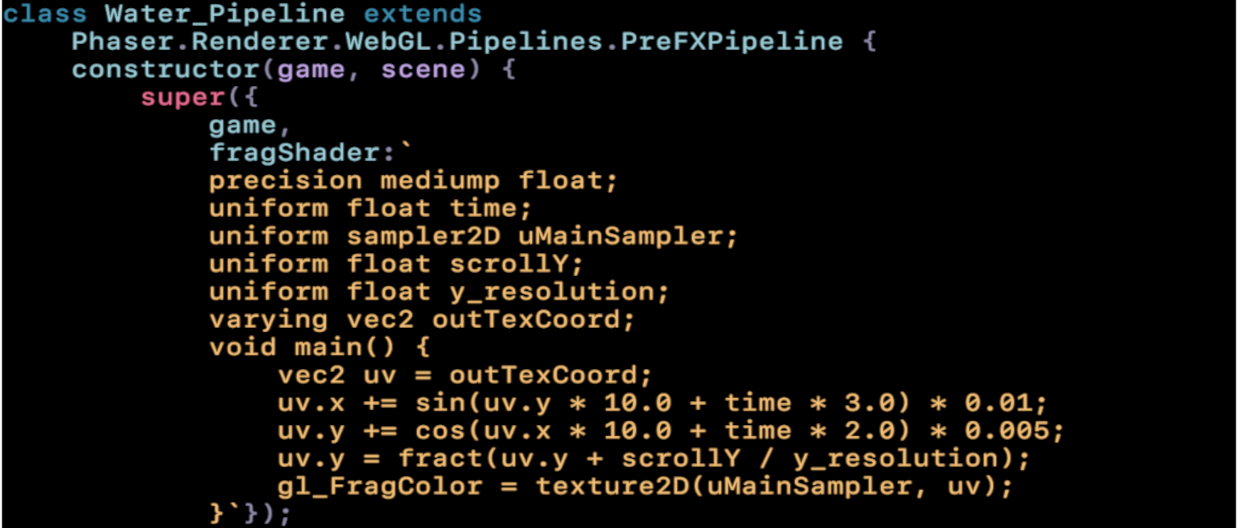
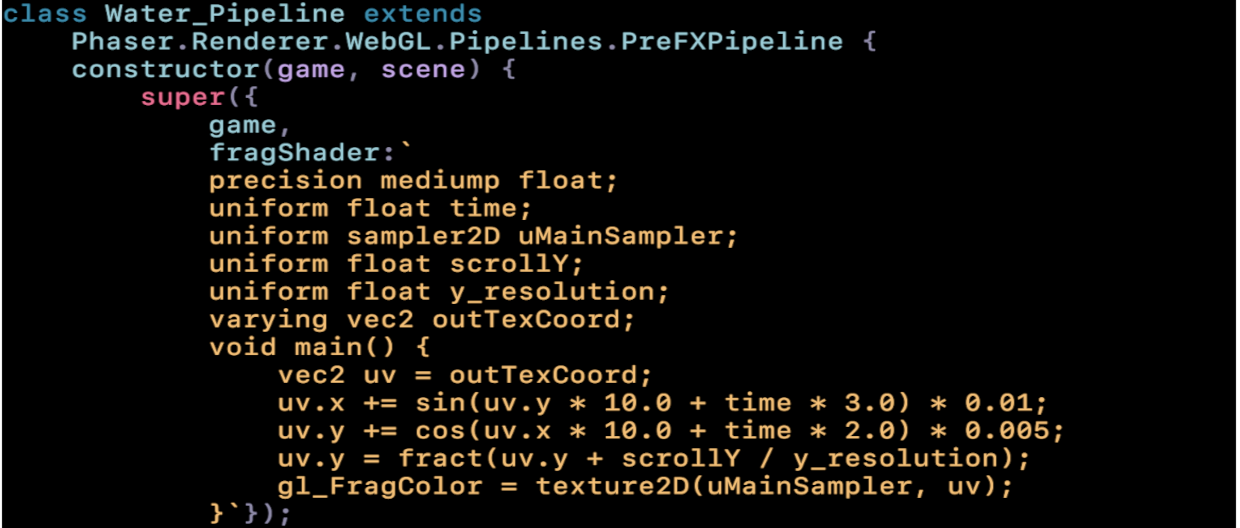
add tween out of quiz scene

diff --git a/src/scenes/Quiz.js b/src/scenes/Quiz.js
@@ -17,7 +17,7 @@ export class Quiz extends Phaser.Scene {
         // this.quiz_idx
         this.quiz_key = Object.values(questions);
         // The times allowed for each question
-        this.question_time_limits = [0, 50000, 40000, 30000, 20000];
+        this.question_time_limits = [0, 50000, 40000, 30000, 2000];
         // Dummy entry to start indexing at one
         this.quiz_key.unshift('');
         this.quiz_idx = 1;
@@ -27,7 +27,7 @@ export class Quiz extends Phaser.Scene {
         
         // Create listener for submit button, which adds to recent feedback column and moves to the next
         // assignment
-        this.submit_button.on('pointerdown', ()=> this.move_to_next_question());
+        this.submit_button.on('pointerdown', ()=> { this.move_to_next_question(); });
     }
 
     update() {
@@ -39,10 +39,26 @@ export class Quiz extends Phaser.Scene {
 
     move_to_next_question() {
         this.add_feedback(this.quiz_idx, this.evaluate_accuracy());
-        this.quiz_idx++;
-        this.start_timer();
-        this.show_next_question();
-        this.textbox.clearText();
+        if (this.quiz_idx < 4) {
+            this.quiz_idx++;
+            this.start_timer();
+            this.show_next_question();
+            this.textbox.clearText();
+        } else {
+            this.scene.launch('Desktop');
+            // Tween down and start next scene if at last question
+            this.feedback.visible = false;
+            this.tweens.add({
+                targets: this.container,
+                scale: 0,
+                duration: 800,
+                ease: 'Cubic.easeOut',
+                onComplete: () => {
+                    this.scene.stop('Quiz');
+                }
+            })
+
+        }
 
     }
 
@@ -166,7 +182,7 @@ export class Quiz extends Phaser.Scene {
             expected_text.length;
 
         for (let i = 0; i < count; i++) {
-            if (text[i] == expected_text[i])
+            if (text[i] === expected_text[i])
                 num_correct_chars++;
         }
         

diff --git a/src/scenes/Desktop.js b/src/scenes/Desktop.js
@@ -2,27 +2,34 @@ import { globals } from '../main.js'
 import { create_pointer_listeners } from '../helpers/create_pointer_listeners.js'; 
 
 export class Desktop extends Phaser.Scene {
-    constructor() {
+    constructor(mode) {
         super("Desktop");
+        this.mode = mode;
     }
 
     create() {
         this.create_objects();
-        // Play background buzz
-        this.sound.add('fluroscent_buzz', {loop: true, volume: 2.5}).play();
-        // Add click sfx
-        this.sound.add('click_sfx');
+        if (this.mode == 'postcard_back') {
+            // Play background buzz
+            this.sound.add('fluroscent_buzz', {loop: true, volume: 3}).play();
+            // Add click sfx
+            this.sound.add('click_sfx');
+        } else {
+            this.scene.stop('Cursor');
+        }
 
         // Add listeners for changing the cursor state and click sounds
         create_pointer_listeners(this);
 
         // Check if a canvas icon is clicked
-        this.input.on('pointerdown', (pointer, targets) => {
-            // Check if canvas icon is clicked
-            if (targets.includes(this.canvas_icon) || targets.includes(this.start_menu_icons)) {
-                // Change cursor back to normal and launch next scene
-                this.game.events.emit('no_hover') 
-                this.scene.launch('Canvas');
+        if (this.mode == 'postcard_back') {
+            this.input.on('pointerdown', (pointer, targets) => {
+                // Check if canvas icon is clicked
+                if (targets.includes(this.canvas_icon) || targets.includes(this.start_menu_icons)) {
+                    // Change cursor back to normal and launch next scene
+                    this.game.events.emit('no_hover') 
+                    this.scene.launch('Canvas');
+                }
             }
 
             // Check if start button is clicked

diff --git a/src/scenes/Menu.js b/src/scenes/Menu.js
@@ -8,6 +8,7 @@ export class Menu extends Phaser.Scene {
     preload() {
         this.load.image('wxp_bootup_screen', './assets/imgs/wxp_bootup_screen.png');
         this.load.image('wxp_start_menu', './assets/imgs/wxp_start_menu.png');
+        this.load.image('wxp_toolbar', './assets/imgs/wxp_toolbar.png');
         this.load.image('wxp_wallpaper', './assets/imgs/wxp_wallpaper.jpg');
         this.load.image('wxp_titlebar', './assets/imgs/wxp_titlebar.png');
         this.load.image('canvas_icon', './assets/imgs/canvas_icon.png');
